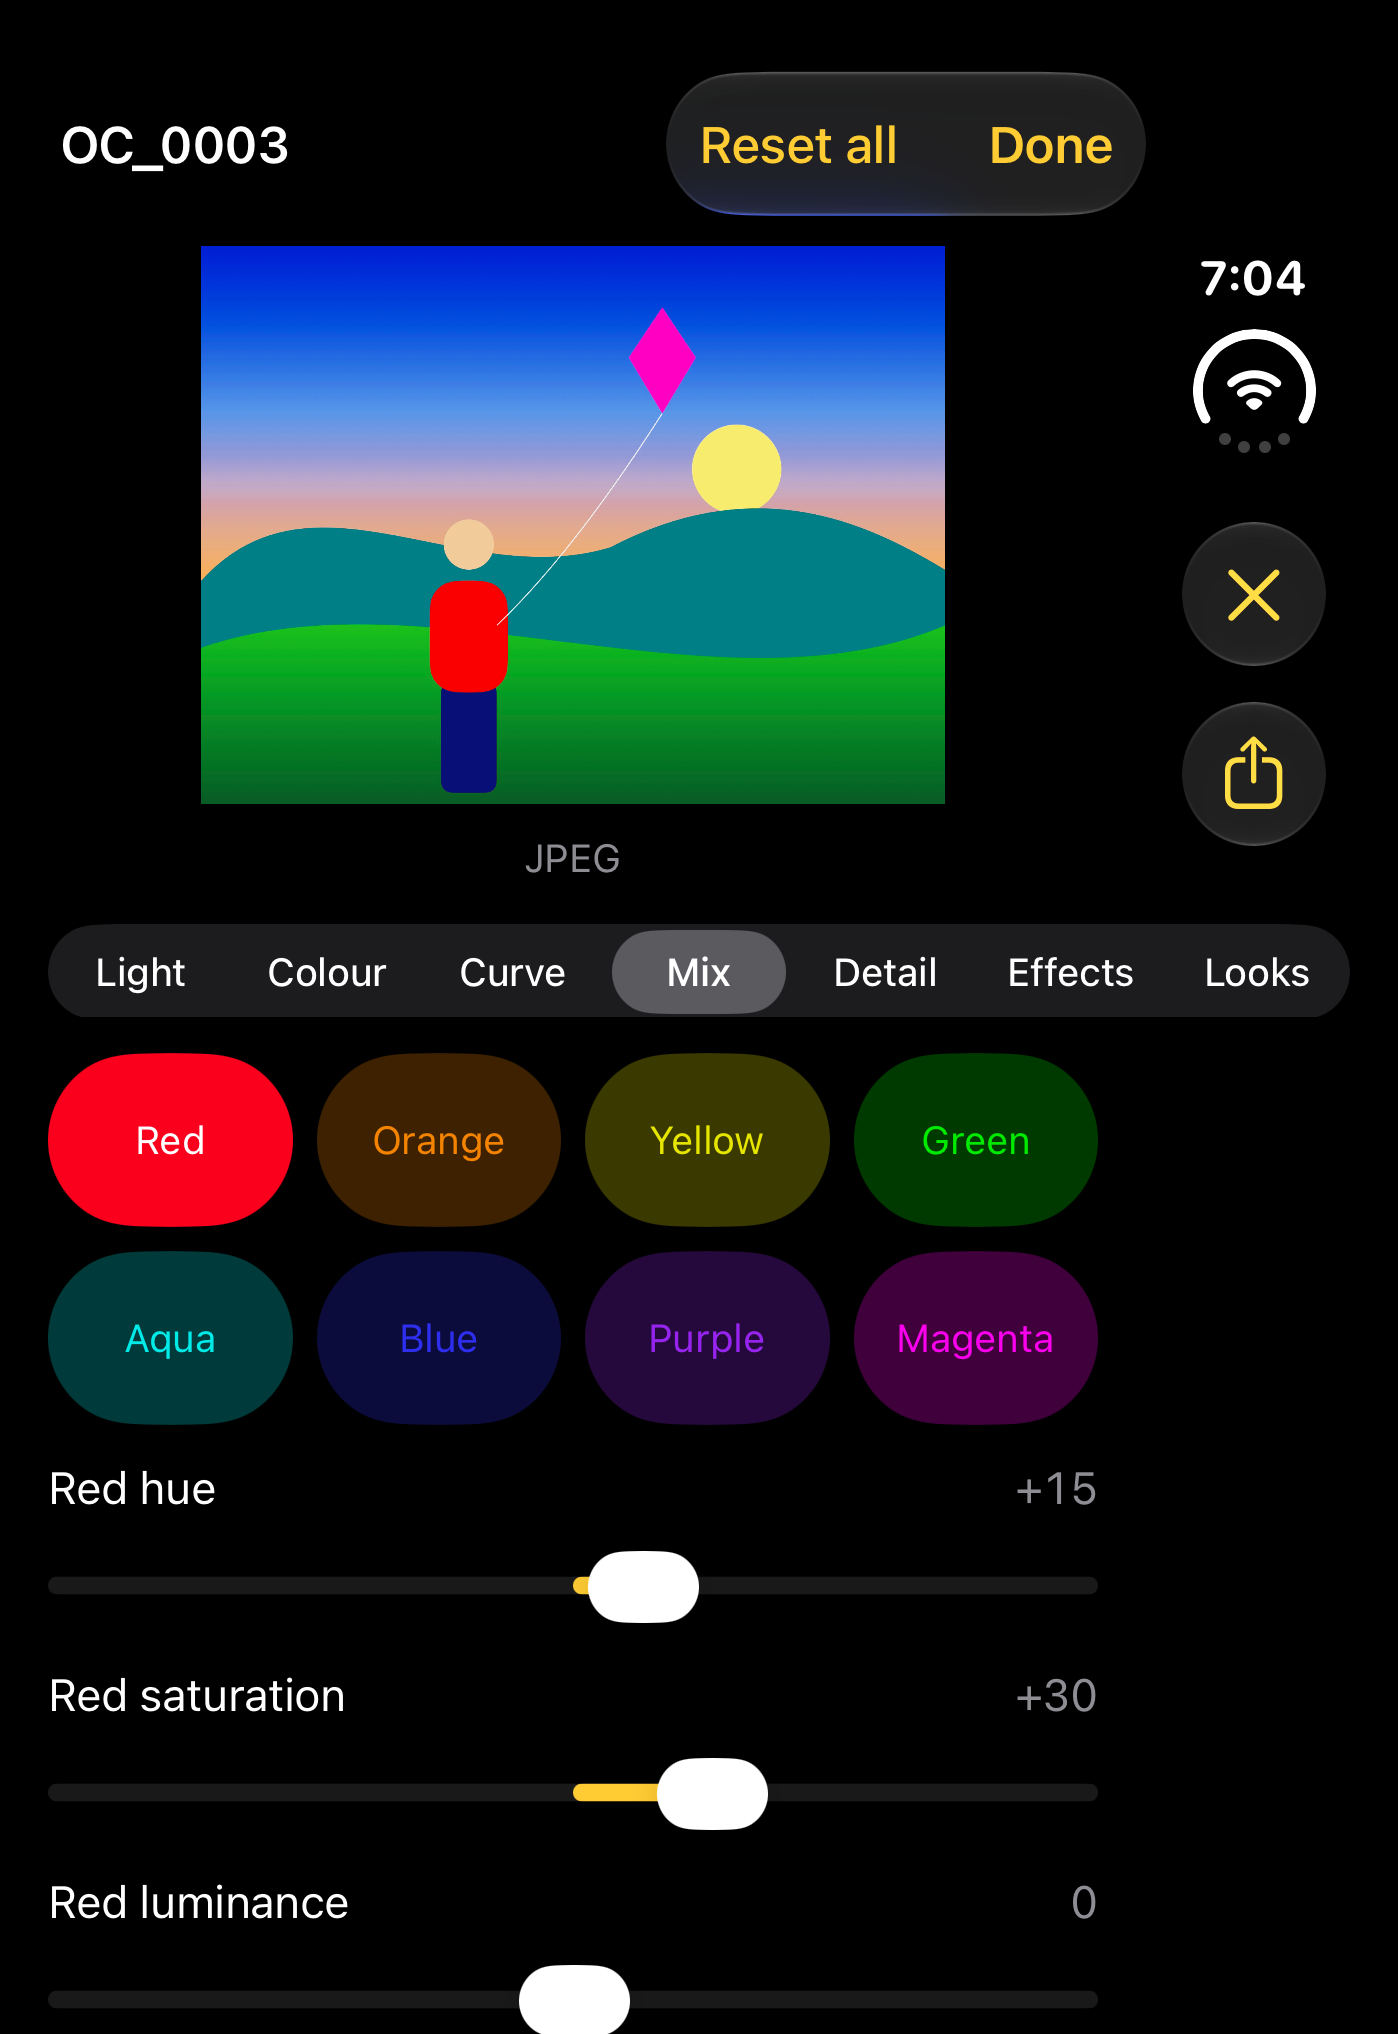
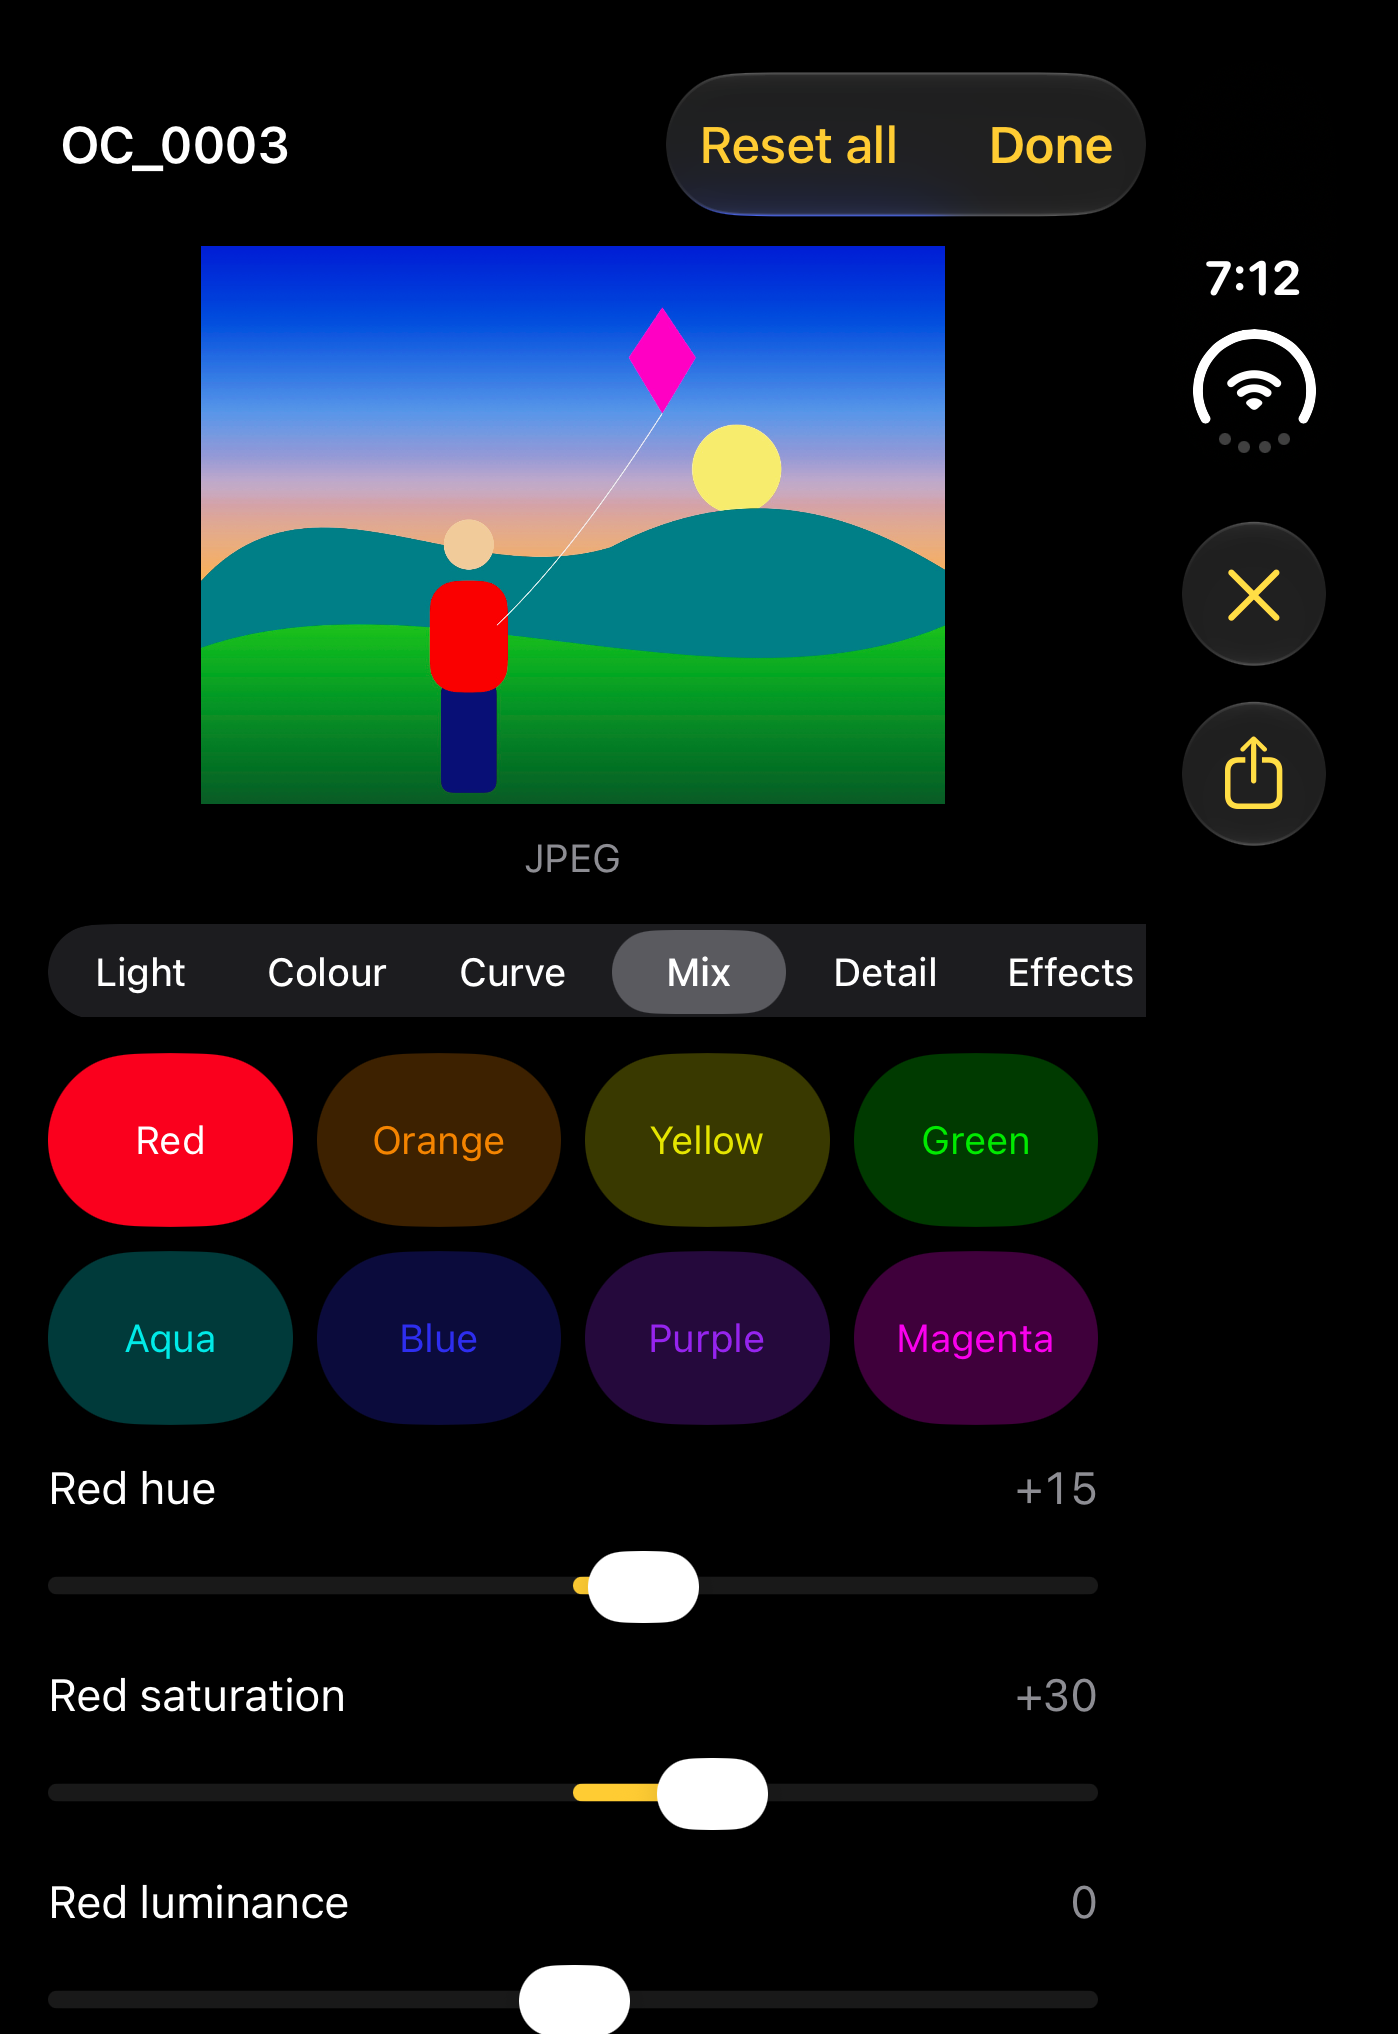
fix: keep the group picker inside the panel and offer Reset only on a changed curve

Changed region(s): [[0.7997, 0.4336, 0.9843, 0.5265], [0.8612, 0.1239, 0.9535, 0.1549]]

diff --git a/OpenCamTests/CurveEditingTests.swift b/OpenCamTests/CurveEditingTests.swift
@@ -24,6 +24,7 @@ import Testing
         #expect(lifted.points.count == 3); #expect(lifted.points[0] == CurvePoint(x: 0, y: 0))
         #expect(end.curve(translation: CurvePoint(x: 0.7, y: 0.1), margin: 0.1).points[0] == CurvePoint(x: 0.49, y: 0.1))
         #expect(s.removing(0) == s); #expect(s.removing(2) == s); #expect(s.removing(1) == .identity)
+        #expect(try #require(CurveDrag.begin(on: s, at: CurvePoint(x: 0.52, y: 0.61), radius: 0.05)).curve(translation: CurvePoint(x: 0, y: 0), margin: 0.1) == s)   // an off-centre touch never jumps the point
         // Exactly a neighbour's x + 0.01 is kept: the gap is compared in whole thousandths, not as a Double difference.
         let four = ToneCurve(points: [CurvePoint(x: 0, y: 0), CurvePoint(x: 0.2, y: 0.3), CurvePoint(x: 0.6, y: 0.7), CurvePoint(x: 1, y: 1)])
         let inner = try #require(CurveDrag.begin(on: four, at: CurvePoint(x: 0.6, y: 0.7), radius: 0.05)); let close = inner.curve(translation: CurvePoint(x: -0.39, y: 0), margin: 0.1)
@@ -47,6 +48,6 @@ import Testing
         _ = try LookSeeder.seedColourStudy(into: looks); #expect(try LookSeeder.seedColourStudy(into: looks) == nil)
         #expect(LookSeeder.colourStudy.curves.master.points.count == 4); #expect(LookSeeder.colourStudy.hasColourChanges); let captures = try TestFiles.directory()
         _ = try TestFiles.writeJPEG(width: 64, height: 48, rgb: SIMD3(0.5, 0.5, 0.5), to: captures.appending(path: "OC_0001.JPG"))
-        guard let item = LibraryScanner.items(in: captures).first else { throw TestFileError.bitmapUnavailable }
+        let item = try #require(LibraryScanner.items(in: captures).first)
         let launched = EditorModel(item: item, edits: EditStore(directory: captures), looks: looks, launchLook: "Colour study"); await launched.load()
         #expect(launched.adjustments == LookSeeder.colourStudy); #expect(launched.lookName == "Colour study"); #expect(launched.hasUnsavedChanges) } }

diff --git a/OpenCam/UI/Editor/ScrollingPicker.swift b/OpenCam/UI/Editor/ScrollingPicker.swift
@@ -22,6 +22,10 @@ struct ScrollingPicker<Value: Hashable>: View {
         }
         .scrollIndicators(.hidden)
         .scrollBounceBehavior(.basedOnSize, axes: .horizontal)
+        // A scroll view draws past its frame along its axis: into the safe area (the outer display's system strip, in portrait)
+        // and while it rubber-bands. The strip is cut at its own sides, so a segment at the edge stops there; above and below
+        // it is left free for the selection's lift while it is touched.
+        .mask { Rectangle().padding(.vertical, -Theme.Space.l) }
         // Only the opening offset: a later choice never moves the strip under the finger.
         .defaultScrollAnchor(isSelectionInLastHalf ? .trailing : .leading, for: .initialOffset)
         .fixedSize(horizontal: false, vertical: true)

diff --git a/OpenCam/UI/Editor/CurveCanvas.swift b/OpenCam/UI/Editor/CurveCanvas.swift
@@ -39,7 +39,10 @@ struct CurveCanvas: View {
         .accessibilityLabel("\(channel.title) curve")
         // A curve always keeps its two end points, so the count is never 1.
         .accessibilityValue("\(curve.points.count) points")
-        .accessibilityAction(named: "Reset") { curve = .identity }
+        // Offered only while there is something to reset, as the visible Reset is.
+        .accessibilityActions {
+            if !curve.isIdentity { Button("Reset") { curve = .identity } }
+        }
     }
 
     // MARK: - Touch
